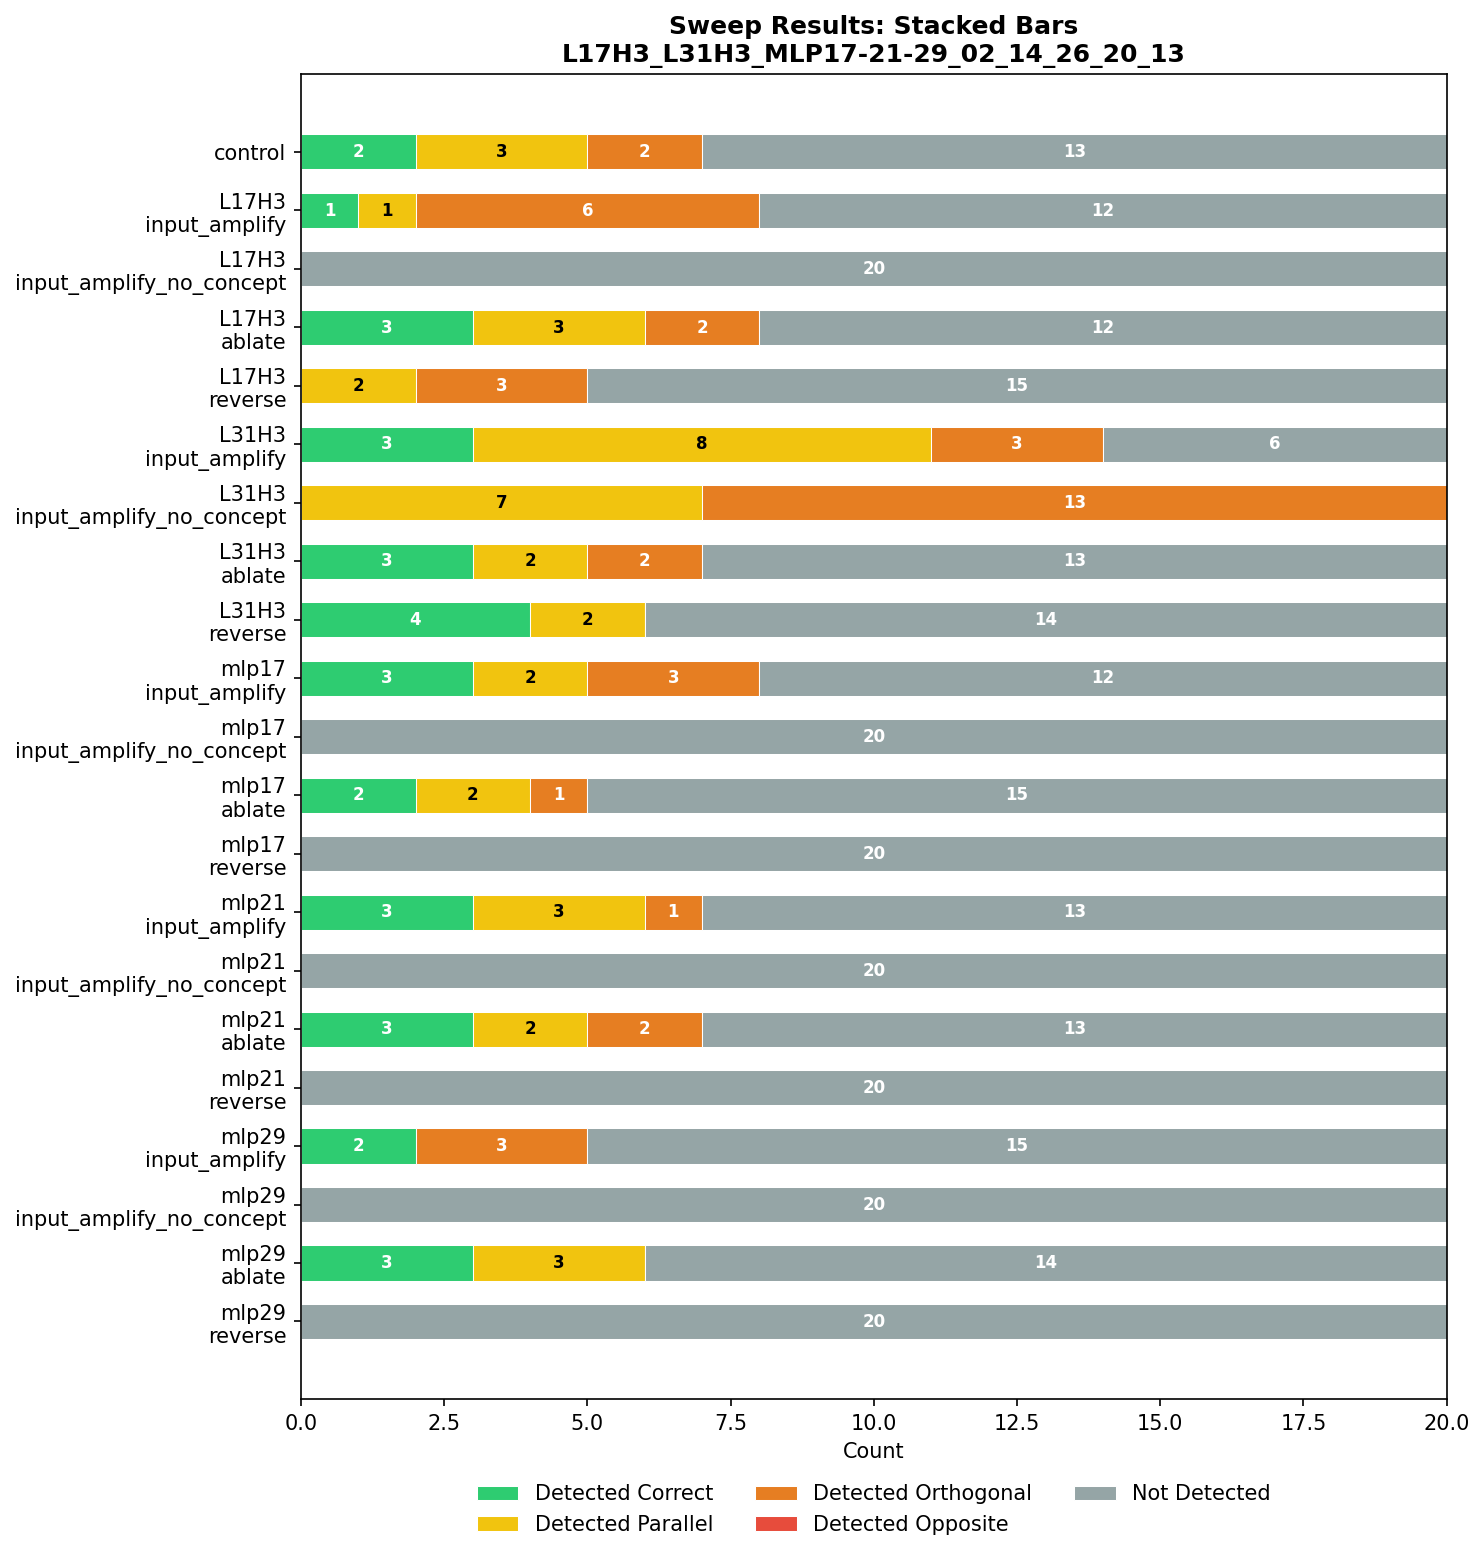
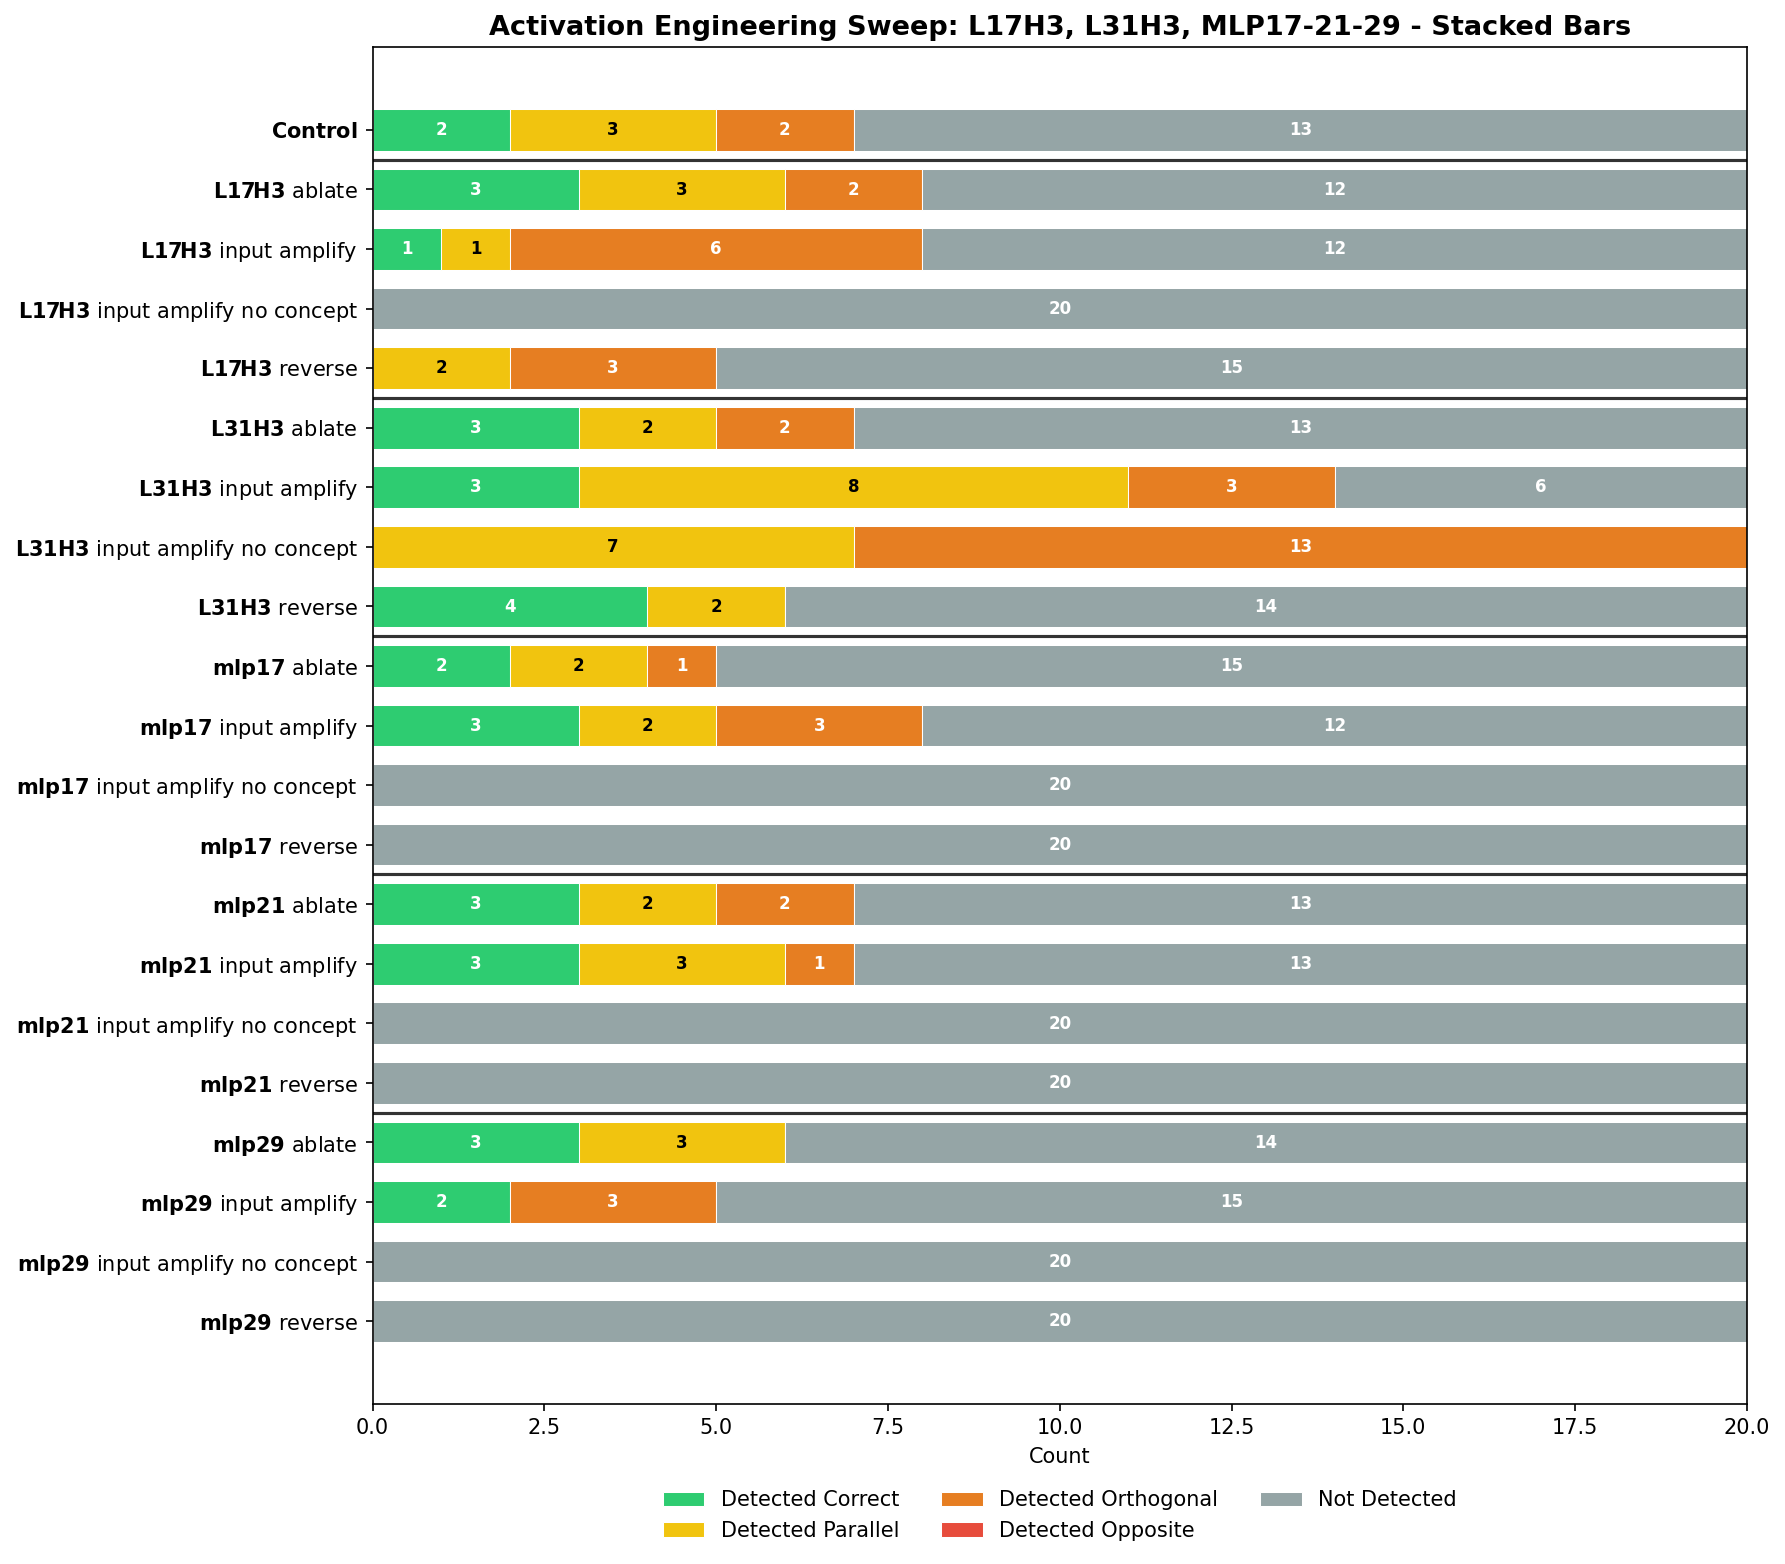
final results

diff --git a/plots/plot_sweep.py b/plots/plot_sweep.py
@@ -1,9 +1,10 @@
 """Plot sweep results from a CSV file.
 
-Generates:
-1. Stacked bar chart (all categories)
-2. Heatmap (color intensity = count)
-3. Success Rate bar chart (only detected_correct)
+New features:
+- Group experiments by Head/MLP (e.g., L17H3, mlp17)
+- Cleaner chart titles (remove timestamps, better formatting)
+- Visual separators between groups
+- Bold component names in labels (e.g., **L17H3** input amplify)
 
 Usage:
     python plots/plot_sweep.py --csv success_programs/sweep_results/sweep_L17H3_L31H3_MLP17-21-29_02_14_26_19_08.csv
@@ -11,9 +12,9 @@ Usage:
 
 import argparse
 import csv
+import re
 import matplotlib.pyplot as plt
 import numpy as np
-
 from pathlib import Path
 
 # Color scheme (consistent with other plots)
@@ -34,44 +35,137 @@ CATEGORIES_ORDER = [
 ]
 
 
+def clean_title(filename_stem):
+    """
+    Example: sweep_L17H3_L31H3_MLP17-21-29_02_14_26_19_08
+    Returns: Activation Engineering Sweep: L17H3, L31H3, MLP17-21-29
+    """
+    title = filename_stem
+    if title.startswith("sweep_"):
+        title = title[6:]
+    
+    # Remove timestamp suffix (e.g. _02_14_26...)
+    title = re.sub(r'_\d{2}_\d{2}_\d{2}.*$', '', title)
+    
+    # Replace remaining underscores with spaces or commas
+    title = title.replace('_', ', ')
+    return f"Activation Engineering Sweep: {title}"
+
+
+def get_group(exp_name):
+    """
+    Extract grouping key:
+    L17H3_input_amplify -> L17H3
+    mlp17_ablate -> mlp17
+    control -> Control
+    """
+    if exp_name.lower() == "control":
+        return "Control"
+    
+    m = re.match(r"(L\d+H\d+)", exp_name)
+    if m:
+        return m.group(1)
+        
+    m = re.match(r"(mlp\d+)", exp_name)
+    if m:
+        return m.group(1)
+        
+    return "Other"
+
+
+def format_exp_label(exp_name):
+    """
+    Format label with bold component name.
+    L17H3_input_amplify -> $\bf{L17H3}$ input amplify
+    control -> $\bf{Control}$
+    """
+    # Check for Control
+    if exp_name.lower() == "control":
+        return r"$\bf{Control}$"
+    
+    # Split on first underscore
+    parts = exp_name.split('_', 1)
+    if len(parts) == 2:
+        head, suffix = parts
+        suffix = suffix.replace('_', ' ')
+        
+        # Check if head looks like a component we want to bold
+        if re.match(r"^(L\d+H\d+|mlp\d+)$", head, re.IGNORECASE):
+             # Use mathtext for bolding. Note: spaces must be outside match or escaped.
+             # We put the component name inside $\bf{...}$
+             return f"$\\bf{{{head}}}$ {suffix}"
+             
+    # Fallback: just replace underscores
+    return exp_name.replace('_', ' ')
+
+
 def load_data(csv_path):
-    experiments = []
-    data = {cat: [] for cat in CATEGORIES_ORDER}
+    raw_experiments = []
+    raw_data = {cat: {} for cat in CATEGORIES_ORDER} # store by exp name
     
     with open(csv_path, 'r') as f:
         reader = csv.DictReader(f)
         for row in reader:
             exp_name = row['experiment']
-            # Clean up experiment names for better labels
-            if exp_name.startswith("L") or exp_name.startswith("mlp"):
-                parts = exp_name.split('_', 1)
-                if len(parts) > 1:
-                    exp_name = f"{parts[0]}\n{parts[1]}"
+            raw_experiments.append(exp_name)
             
-            experiments.append(exp_name)
-            
-            total = int(row.get('total', 0))
-            if total == 0:
-                print(f"Warning: Total is 0 for {exp_name}")
-                continue
-
             for cat in CATEGORIES_ORDER:
                 count = int(row.get(cat, 0))
-                data[cat].append(count)
-                
+                raw_data[cat][exp_name] = count
+
+    # Sort logic: Control first, then Heads, then MLPs
+    def sort_key(name):
+        group = get_group(name)
+        if group == "Control":
+            return (0, name)
+        elif group.startswith("L"):
+            # Sort by layer number (L17 < L31)
+            try:
+                layer = int(re.search(r"L(\d+)", group).group(1))
+                return (1, layer, group, name)
+            except:
+                return (1, 999, group, name)
+        elif group.startswith("mlp"):
+             # Sort by layer number (mlp17 < mlp21)
+            try:
+                layer = int(re.search(r"mlp(\d+)", group).group(1))
+                return (2, layer, group, name)
+            except:
+                return (2, 999, group, name)
+        return (3, name)
+
+    experiments = sorted(raw_experiments, key=sort_key)
+    
+    # Rebuild data lists in sorted order
+    data = {cat: [] for cat in CATEGORIES_ORDER}
+    for exp in experiments:
+        for cat in CATEGORIES_ORDER:
+            data[cat].append(raw_data[cat][exp])
+            
     return experiments, data
 
 
-def plot_stacked_bars(experiments, data, title_suffix, output_path):
+def add_group_separators(ax, experiments):
+    # Detect group boundaries
+    current_group = get_group(experiments[0])
+    for i, exp in enumerate(experiments):
+        grp = get_group(exp)
+        if grp != current_group:
+            # Draw line between i-1 and i
+            ax.axhline(i - 0.5, color='black', linestyle='-', linewidth=1.5, alpha=0.8)
+            current_group = grp
+
+
+def plot_stacked_bars(experiments, data, title_base, output_path):
     n_exp = len(experiments)
-    fig, ax = plt.subplots(figsize=(10, max(6, n_exp * 0.5)))
+    fig, ax = plt.subplots(figsize=(12, max(6, n_exp * 0.5)))
     
     y_pos = np.arange(n_exp)
     left = np.zeros(n_exp)
     
     for cat in CATEGORIES_ORDER:
         counts = np.array(data[cat])
-        ax.barh(y_pos, counts, left=left, height=0.6, 
+        ax.barh(y_pos, counts, left=left, height=0.7, 
                 label=cat.replace('_', ' ').title(), 
                 color=CAT_COLORS[cat], edgecolor='white', linewidth=0.5)
         
@@ -84,10 +178,16 @@ def plot_stacked_bars(experiments, data, title_suffix, output_path):
         left += counts
 
     ax.set_yticks(y_pos)
-    ax.set_yticklabels(experiments)
+    
+    # Format labels with bolding
+    labels = [format_exp_label(e) for e in experiments]
+    ax.set_yticklabels(labels)
     ax.invert_yaxis()
+    
+    add_group_separators(ax, experiments)
+
     ax.set_xlabel("Count")
-    ax.set_title(f"Sweep Results: Stacked Bars\n{title_suffix}", fontsize=12, fontweight='bold')
+    ax.set_title(f"{title_base} - Stacked Bars", fontsize=13, fontweight='bold')
     ax.legend(loc='upper center', bbox_to_anchor=(0.5, -0.05), ncol=3, frameon=False)
     
     plt.tight_layout()
@@ -96,47 +196,8 @@ def plot_stacked_bars(experiments, data, title_suffix, output_path):
     plt.close()
 
 
-def plot_heatmap(experiments, data, title_suffix, output_path):
-    # Convert data to matrix: concepts (rows) x categories (cols)
-    # Categories order for heatmap: Correct -> Parallel -> etc.
-    cols = CATEGORIES_ORDER
-    matrix = []
-    
-    for i in range(len(experiments)):
-        row_vals = []
-        for cat in cols:
-            row_vals.append(data[cat][i])
-        matrix.append(row_vals)
-    
-    matrix = np.array(matrix)
-    
-    n_exp = len(experiments)
-    fig, ax = plt.subplots(figsize=(8, max(6, n_exp * 0.5)))
-    
-    # Use seaborn heatmap if available, else simple matshow
-    try:
-        sns.heatmap(matrix, annot=True, fmt="d", cmap="YlGnBu", 
-                    xticklabels=[c.replace("detected_", "") for c in cols],
-                    yticklabels=experiments, ax=ax, cbar_kws={'label': 'Count'})
-    except NameError:
-        # Fallback if seaborn not requested/installed (though I imported it, so let's handle if import fails)
-        im = ax.imshow(matrix, aspect='auto', cmap='YlGnBu')
-        # ... verbose manual annotation code skipped for brevity, user likely has seaborn or matplotlib
-        # If seaborn fails, this block won't run correctly without more code. 
-        # But let's assume matplotlib is enough for basics if I used matshow properly.
-        # Actually, let's just stick to matplotlib for robustness as I didn't install seaborn.
-        pass
-
-    ax.set_title(f"Sweep Results: Heatmap\n{title_suffix}", fontsize=12, fontweight='bold')
-    plt.tight_layout()
-    plt.savefig(output_path, dpi=150, bbox_inches='tight')
-    print(f"Saved heatmap to {output_path}")
-    plt.close()
-
-def plot_heatmap_matplotlib(experiments, data, title_suffix, output_path):
-    """Robust heatmap using only matplotlib"""
+def plot_heatmap_matplotlib(experiments, data, title_base, output_path):
     cols = ["detected_correct", "detected_parallel", "detected_orthogonal", "detected_opposite", "not_detected"]
-    # Shorten labels
     col_labels = ["Correct", "Parallel", "Orthogonal", "Opposite", "Not Detected"]
     
     matrix = []
@@ -148,55 +209,55 @@ def plot_heatmap_matplotlib(experiments, data, title_suffix, output_path):
     n_rows = len(experiments)
     n_cols = len(cols)
     
-    fig, ax = plt.subplots(figsize=(8, max(5, n_rows * 0.5)))
+    fig, ax = plt.subplots(figsize=(10, max(5, n_rows * 0.5)))
     im = ax.imshow(matrix, cmap="Blues", aspect='auto')
     
-    # Axes
     ax.set_xticks(np.arange(n_cols))
     ax.set_yticks(np.arange(n_rows))
     ax.set_xticklabels(col_labels)
-    ax.set_yticklabels(experiments)
     
-    # Loop over data dimensions and create text annotations.
+    labels = [format_exp_label(e) for e in experiments]
+    ax.set_yticklabels(labels)
+    
+    # Add separators
+    add_group_separators(ax, experiments)
+    
+    # Annotate
     for i in range(n_rows):
         for j in range(n_cols):
             val = matrix[i, j]
             text_color = "white" if val > matrix.max()/2 else "black"
             ax.text(j, i, str(val), ha="center", va="center", color=text_color, fontweight='bold')
 
-    ax.set_title(f"Sweep Results: Heatmap\n{title_suffix}", fontsize=12, fontweight='bold')
+    ax.set_title(f"{title_base} - Heatmap", fontsize=13, fontweight='bold')
     fig.tight_layout()
     plt.savefig(output_path, dpi=150, bbox_inches='tight')
     print(f"Saved heatmap to {output_path}")
     plt.close()
 
 
-def plot_success_rate(experiments, data, title_suffix, output_path):
-    """Bar chart of just 'detected_correct' counts"""
+def plot_success_rate(experiments, data, title_base, output_path):
+    """Bar chart of 'detected_correct', but keeping the Grouped order (don't sort by count)"""
     counts = np.array(data["detected_correct"])
     
-    # Sort by count for better readability? Optional. Let's keep input order for now to match other plots.
-    # Actually, sorting makes it easier to pick winners.
-    
-    # Create sorted indices
-    indices = np.argsort(counts)
-    sorted_exp = [experiments[i] for i in indices]
-    sorted_counts = counts[indices]
-    
     n_exp = len(experiments)
-    fig, ax = plt.subplots(figsize=(10, max(6, n_exp * 0.4)))
+    fig, ax = plt.subplots(figsize=(11, max(6, n_exp * 0.4)))
     
     y_pos = np.arange(n_exp)
-    ax.barh(y_pos, sorted_counts, color=CAT_COLORS["detected_correct"], height=0.7)
+    ax.barh(y_pos, counts, color=CAT_COLORS["detected_correct"], height=0.7)
     
-    # Add labels
-    for i, v in enumerate(sorted_counts):
+    for i, v in enumerate(counts):
         ax.text(v + 0.1, i, str(v), va='center', fontweight='bold')
-        
+    
+    add_group_separators(ax, experiments)
+    
     ax.set_yticks(y_pos)
-    ax.set_yticklabels(sorted_exp)
+    labels = [format_exp_label(e) for e in experiments]
+    ax.set_yticklabels(labels)
+    ax.invert_yaxis()
+    
     ax.set_xlabel("Count (Correct Detections)")
-    ax.set_title(f"Sweep Results: Success Rate (Sorted)\n{title_suffix}", fontsize=12, fontweight='bold')
+    ax.set_title(f"{title_base} - Success Rate", fontsize=13, fontweight='bold')
     
     plt.tight_layout()
     plt.savefig(output_path, dpi=150, bbox_inches='tight')
@@ -205,13 +266,12 @@ def plot_success_rate(experiments, data, title_suffix, output_path):
 
 
 def main():
-    parser = argparse.ArgumentParser(description="Plot sweep results from CSV")
+    parser = argparse.ArgumentParser(description="Plot sweep results from CSV (Grouped)")
     parser.add_argument("--csv", type=str, required=True, help="Path to the sweep CSV file")
     args = parser.parse_args()
     
     csv_path = Path(args.csv)
     if not csv_path.exists():
-        # Try finding it relative to project root
         project_root = Path(__file__).resolve().parent.parent
         csv_path = project_root / args.csv
         
@@ -222,12 +282,10 @@ def main():
     print(f"Reading {csv_path}...")
     experiments, data = load_data(csv_path)
     
-    # Title suffix from filename
-    title = csv_path.stem
-    if title.startswith("sweep_"):
-        title = title[6:]
+    # Generate clean title
+    title = clean_title(csv_path.stem)
+    print(f"Title: {title}")
         
-    # Generate plots
     base_name = csv_path.parent / csv_path.stem
     
     plot_stacked_bars(experiments, data, title, Path(f"{base_name}_stacked.png"))
